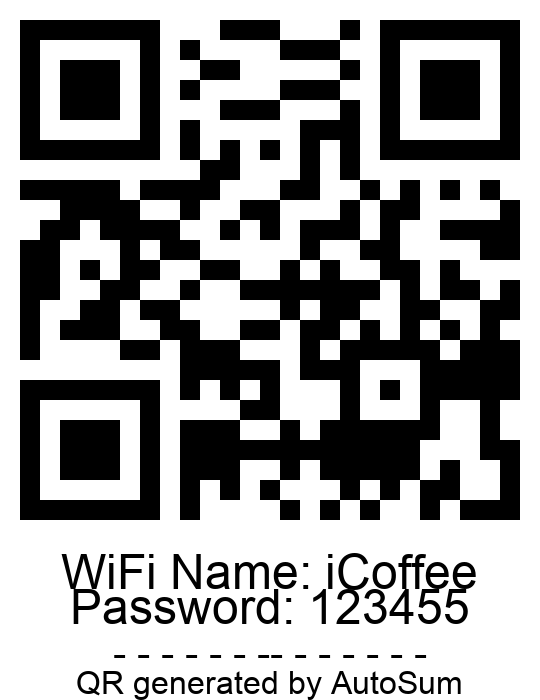
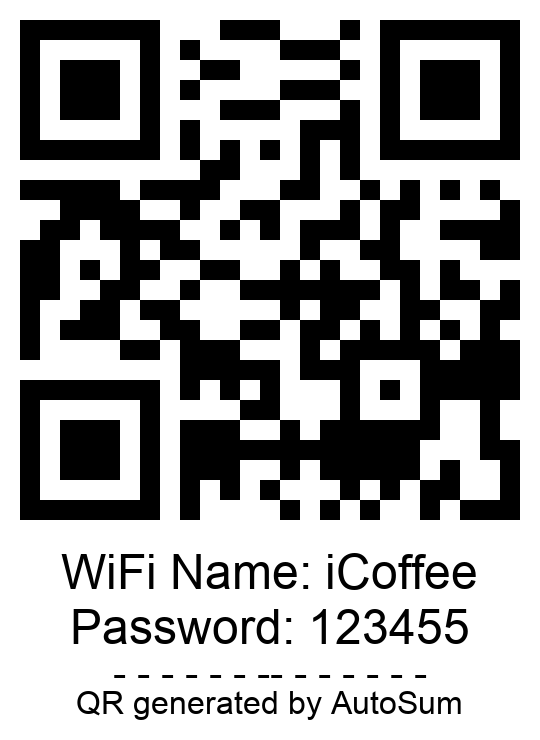
QR code

diff --git a/helper/qr_generator.py b/helper/qr_generator.py
@@ -1,6 +1,8 @@
 import io
+
 import qrcode
 from PIL import Image, ImageDraw, ImageFont
+
 from helper.logger_utils import force_log
 
 
@@ -72,8 +74,8 @@ class QRGenerator:
             qr_width, qr_height = qr_img.size
             force_log(f"QR image size: {qr_width}x{qr_height}", self.logger_name)
             
-            # Create new image with space for text (reduced spacing)
-            text_area_height = 160  # Increased for larger text with higher resolution
+            # Create new image with space for text (increased for proper spacing)
+            text_area_height = 200  # Increased from 160 to 200 to accommodate all text
             total_height = qr_height + text_area_height
             final_img = Image.new('RGB', (qr_width, total_height), 'white')
             
@@ -113,14 +115,17 @@ class QRGenerator:
             
             # Draw each line with custom spacing
             for i, line in enumerate(lines):
-                if i < 2:  # WiFi Name and Password - normal spacing
-                    y_pos = start_y + (i * line_height)
+                if i == 0:  # WiFi Name
+                    y_pos = start_y
+                    current_font = font
+                elif i == 1:  # Password - add extra space after WiFi Name
+                    y_pos = start_y + line_height + 20  # Extra 20px space between WiFi Name and Password
                     current_font = font
                 elif i == 2:  # Separator - add extra space
-                    y_pos = start_y + (i * line_height) + 15  # Extra 15px space before separator
+                    y_pos = start_y + (2 * line_height) + 35  # Account for extra space above
                     current_font = font_small
                 else:  # Footer - smaller font and size
-                    y_pos = start_y + (i * line_height) + 15  # Maintain the extra space
+                    y_pos = start_y + (3 * line_height) + 35  # Maintain spacing
                     current_font = self._load_font(8)  # Even smaller font for footer
                 
                 # Center the text
